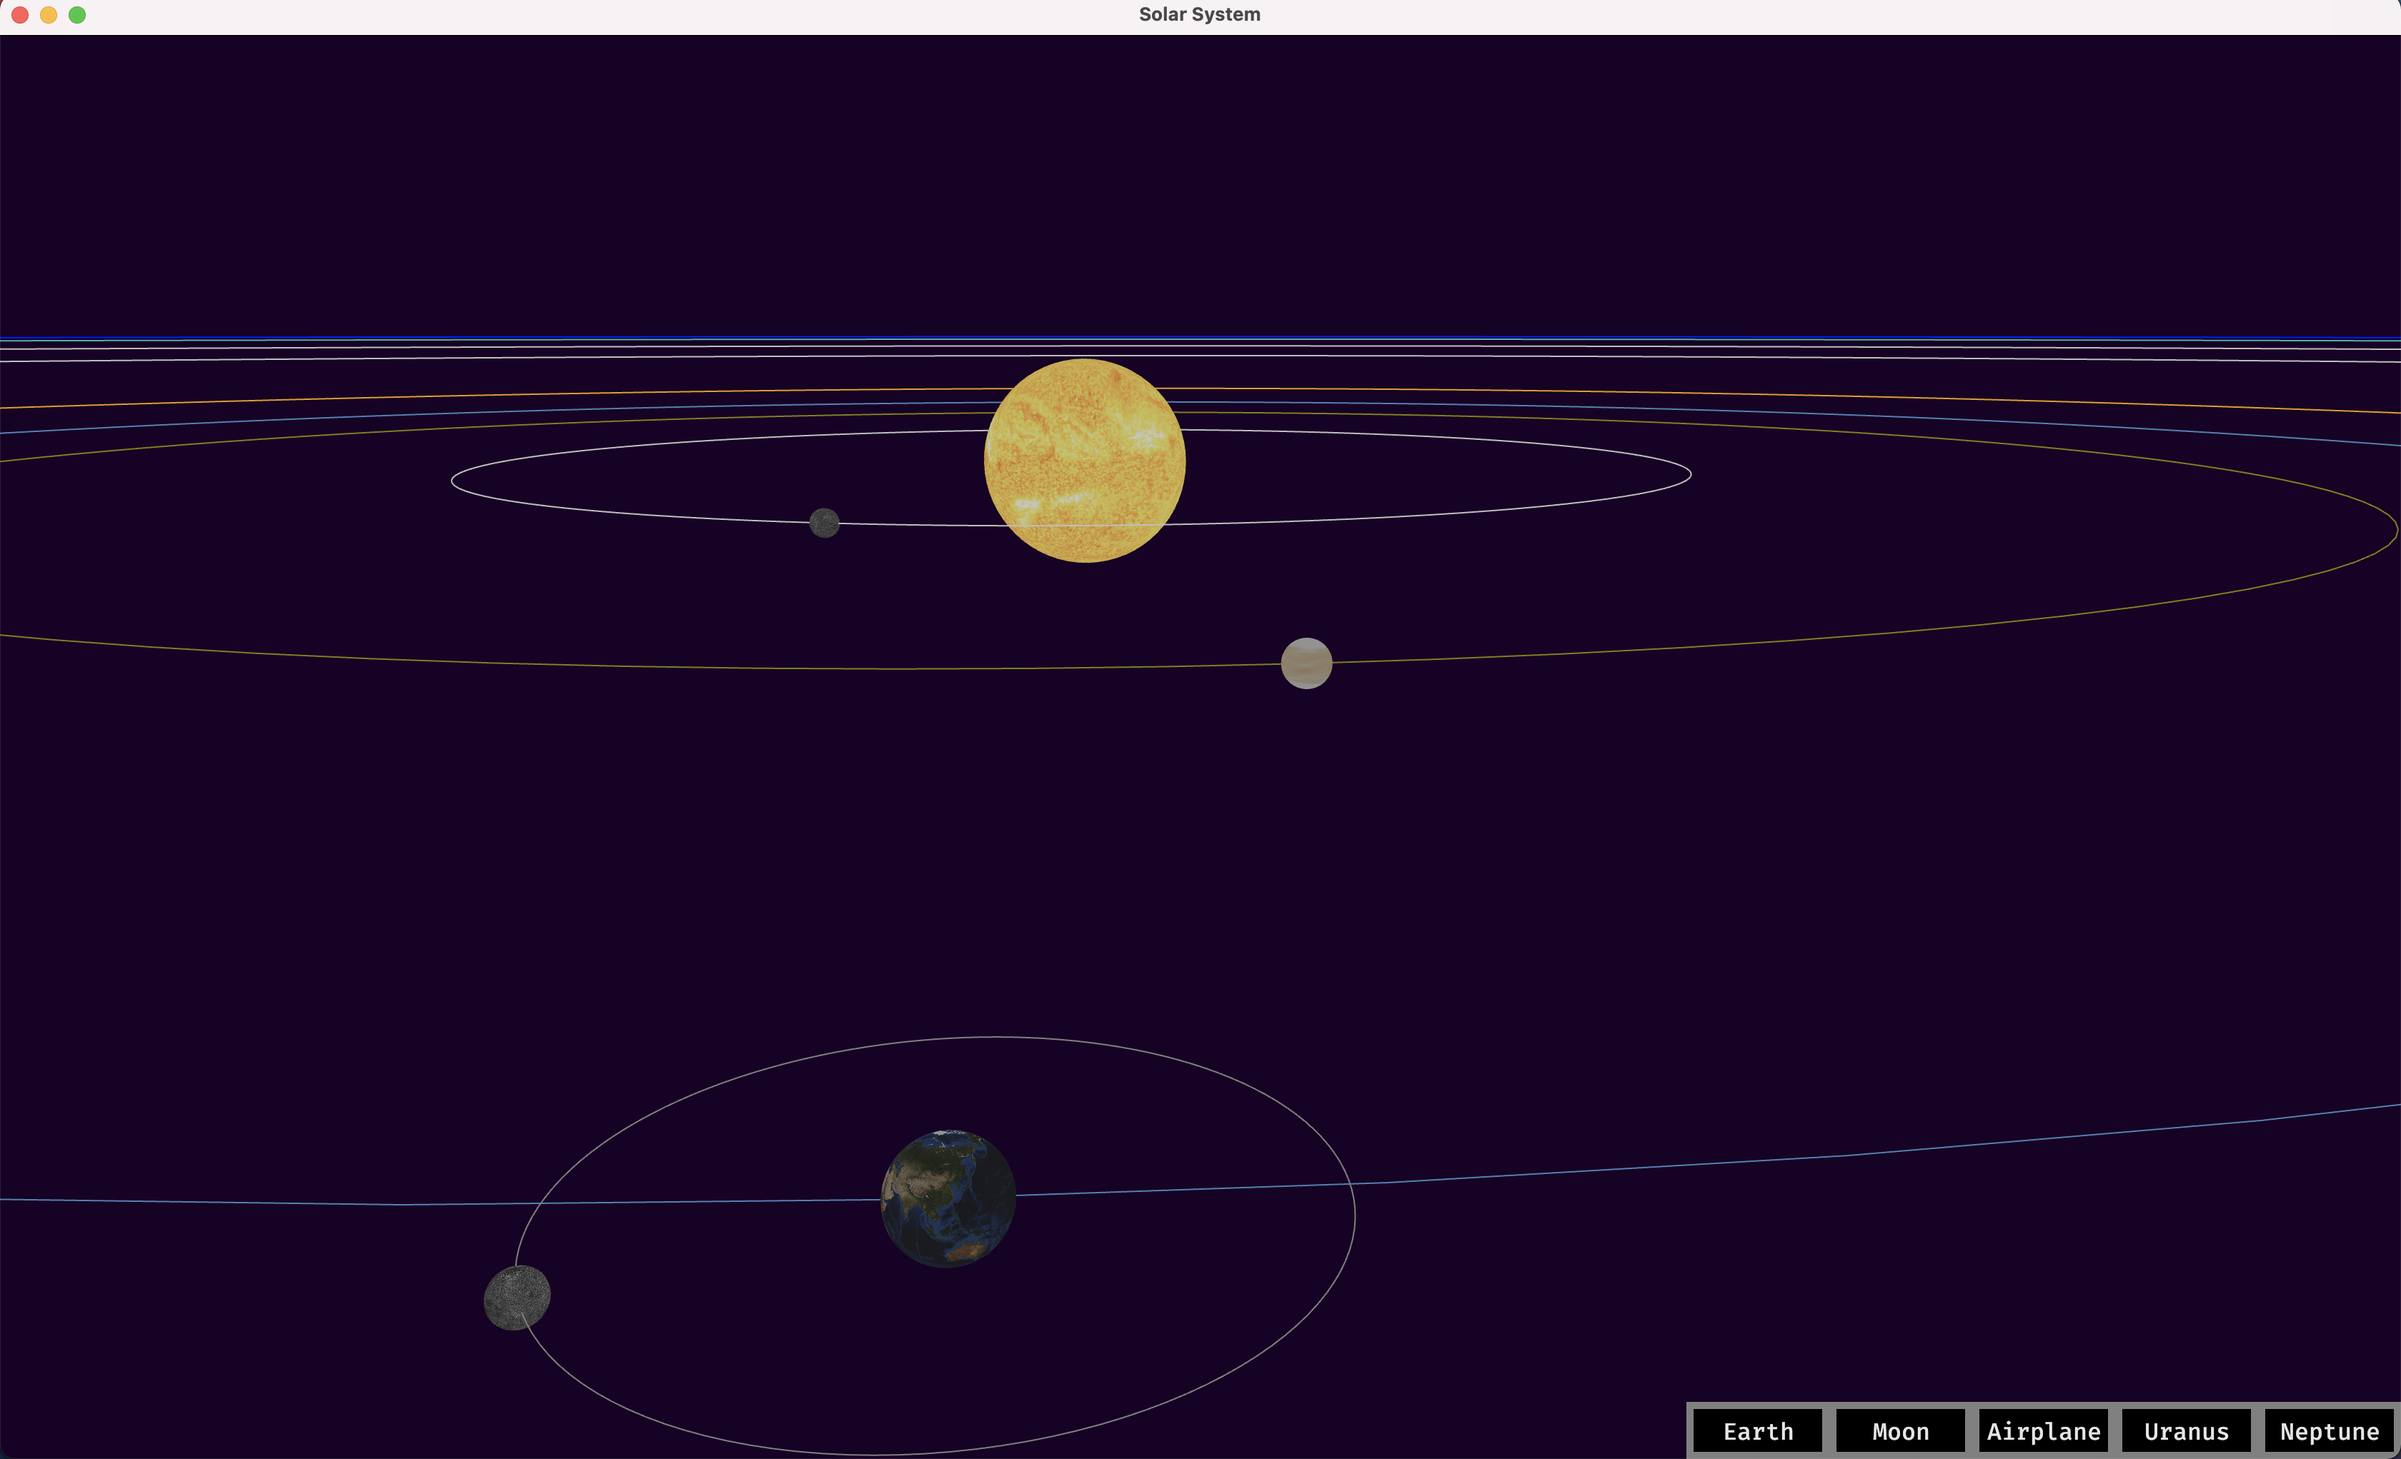
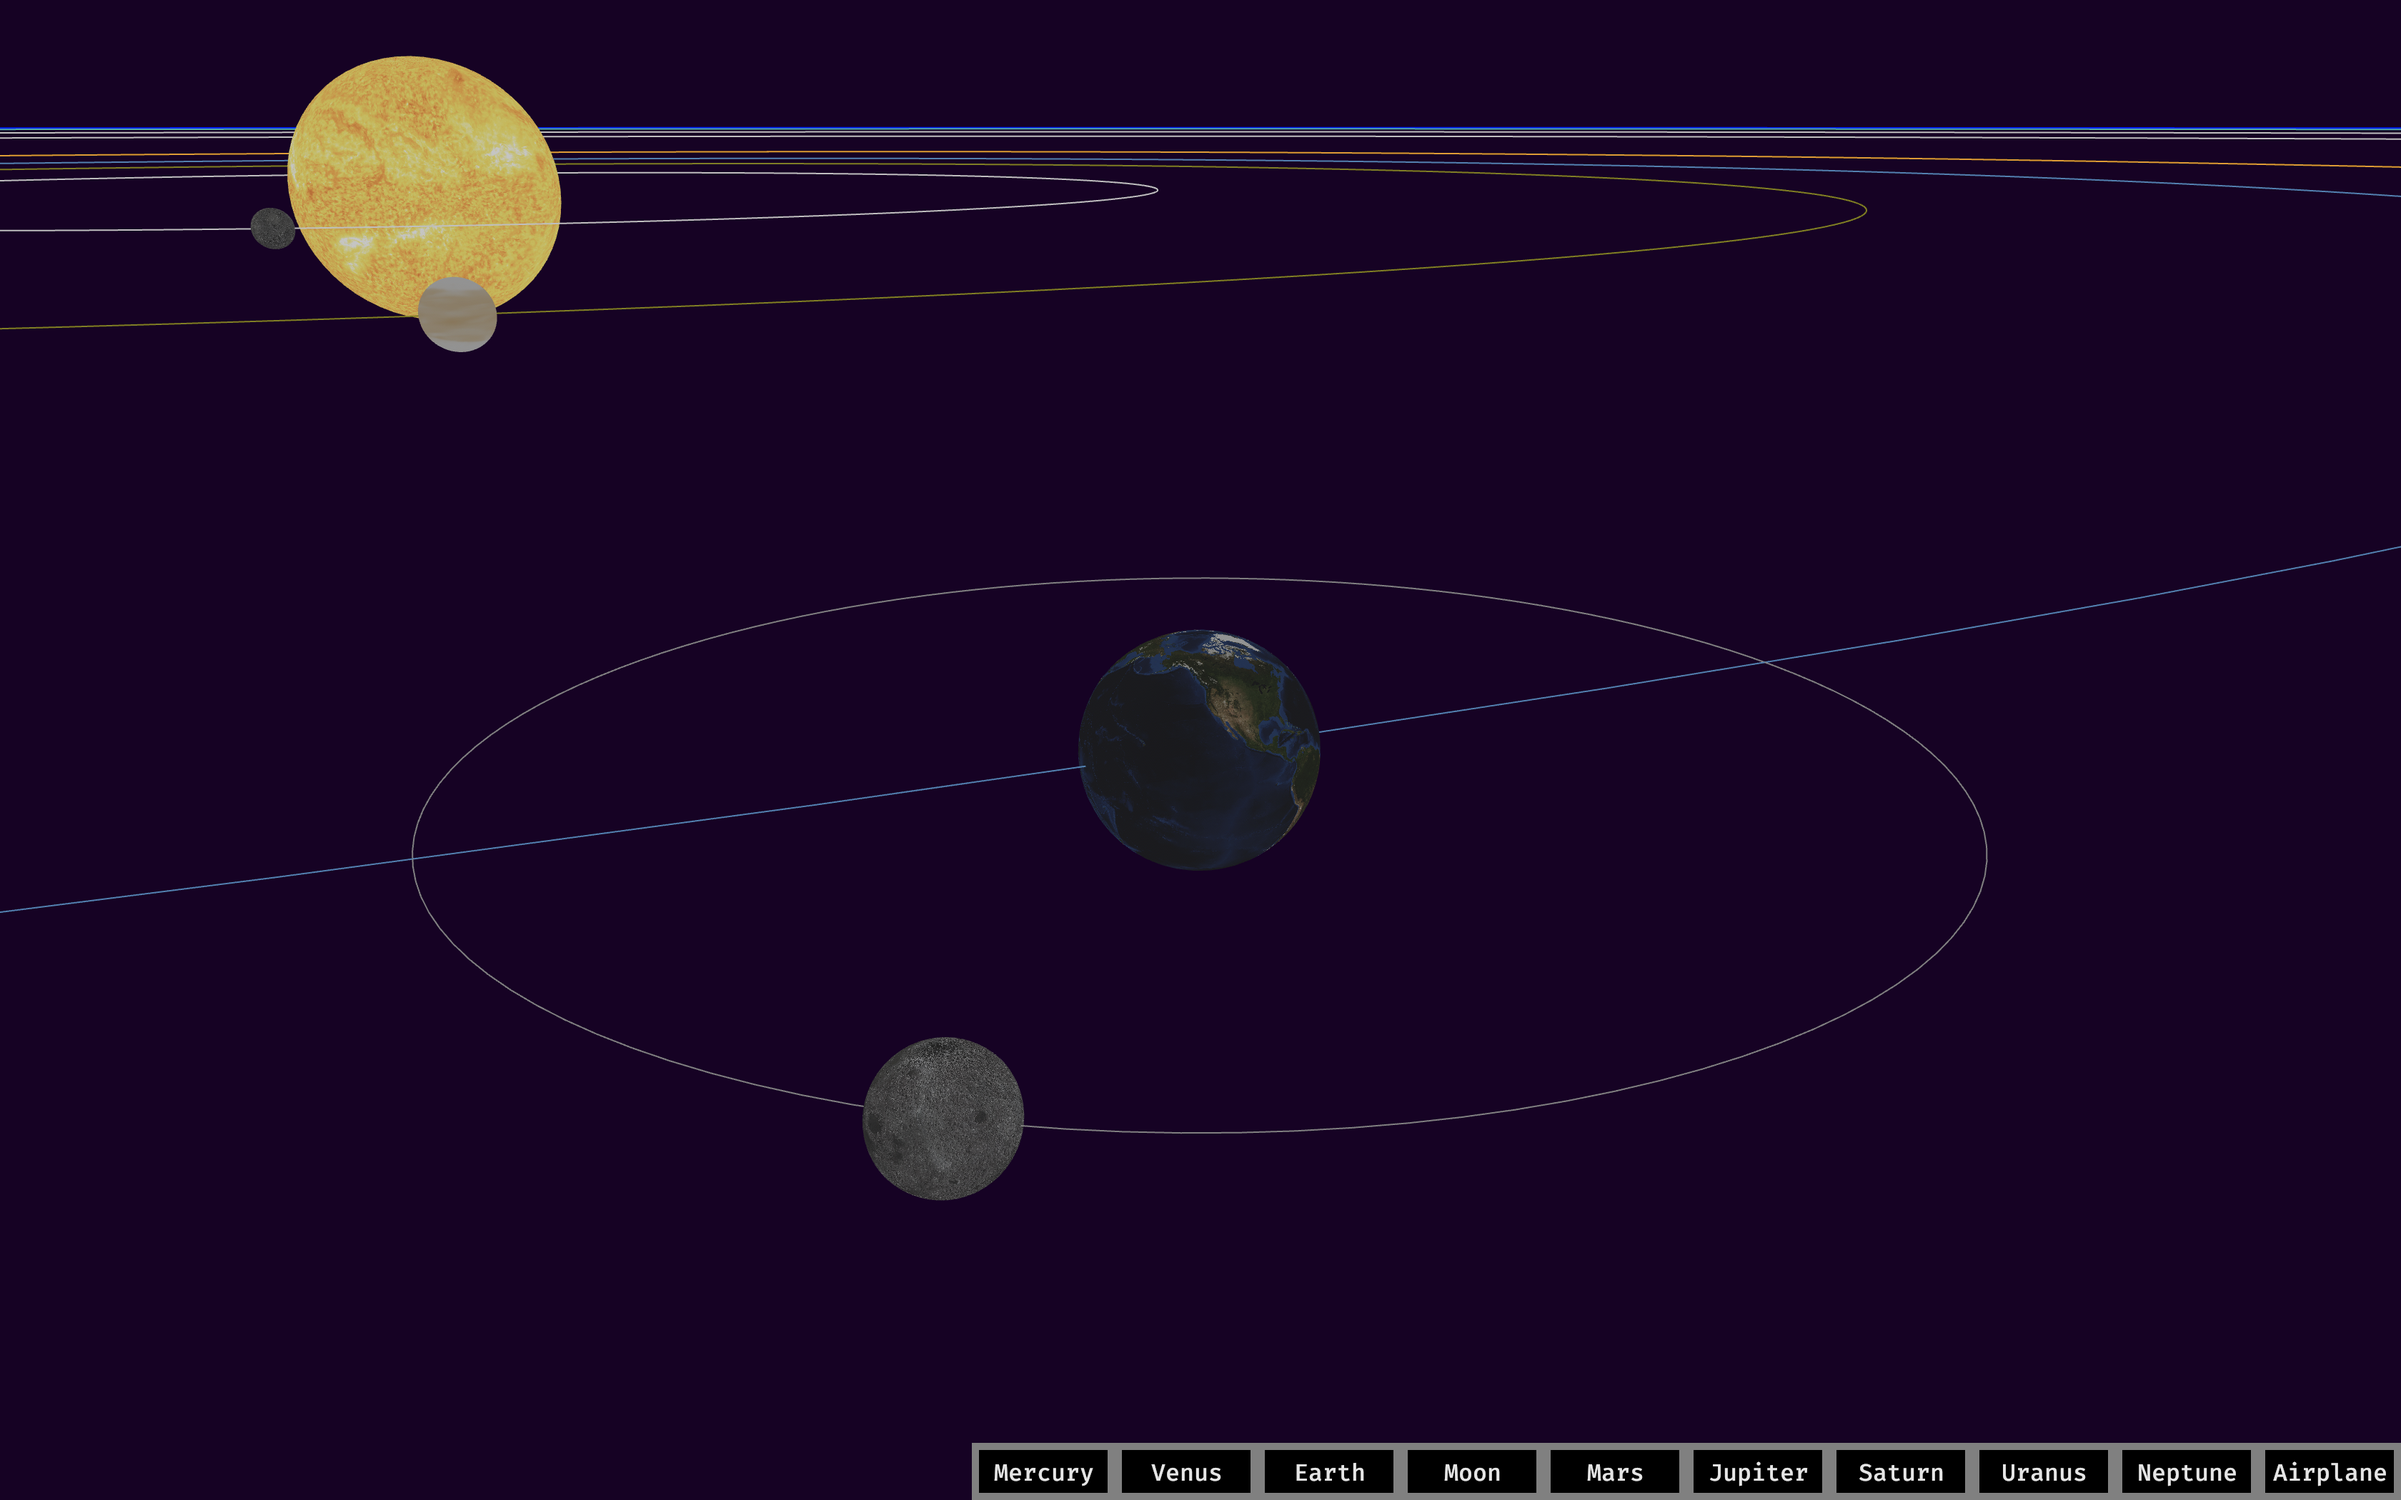
supporting panorbit in selected view

diff --git a/src/main.rs b/src/main.rs
@@ -336,17 +336,24 @@ fn setup(mut commands: Commands, asset_server: Res<AssetServer>) {
     ));
 
     commands.spawn((
+        MyCamera,
         Camera3dBundle {
             // projection: Projection::Perspective(PerspectiveProjection {
             //     far: 10000.0, // change the maximum render distance
             //     ..default()
             // }),
-            transform: Transform::from_xyz(0.0, 100., 0.0).looking_at(Vec3::ZERO, Vec3::Y),
+            transform: Transform::from_xyz(0.0, 500., 0.0).looking_at(Vec3::ZERO, Vec3::Y),
             ..default()
         },
-        PanOrbitCamera::default(),
+        PanOrbitCamera {
+            // target_focus: Vec3::new(0.0, 500., 0.0),
+            ..default()
+        },
     ));
 }
+
+#[derive(Component)]
+struct MyCamera;
 
 fn axis(mut gizmos: Gizmos) {
     gizmos
@@ -356,7 +363,7 @@ fn axis(mut gizmos: Gizmos) {
             constant::mercury::DISTANCE_TO_SUN / PLANET_DISTANCE_TO_SUN_SCALE,
             Color::SILVER,
         )
-        .segments(128);
+        .segments(256);
 
     gizmos
         .circle(
@@ -365,7 +372,7 @@ fn axis(mut gizmos: Gizmos) {
             constant::venus::DISTANCE_TO_SUN / PLANET_DISTANCE_TO_SUN_SCALE,
             Color::OLIVE,
         )
-        .segments(128);
+        .segments(256);
 
     gizmos
         .circle(
@@ -374,7 +381,7 @@ fn axis(mut gizmos: Gizmos) {
             constant::earth::DISTANCE_TO_SUN / PLANET_DISTANCE_TO_SUN_SCALE,
             Color::rgb_u8(70, 130, 180),
         )
-        .segments(128);
+        .segments(256);
 
     gizmos
         .circle(
@@ -383,7 +390,7 @@ fn axis(mut gizmos: Gizmos) {
             constant::mars::DISTANCE_TO_SUN / PLANET_DISTANCE_TO_SUN_SCALE,
             Color::rgb_u8(232, 155, 0), // Yellow Ochre
         )
-        .segments(128);
+        .segments(256);
 
     gizmos
         .circle(
@@ -392,7 +399,7 @@ fn axis(mut gizmos: Gizmos) {
             constant::jupiter::DISTANCE_TO_SUN / PLANET_DISTANCE_TO_SUN_SCALE,
             Color::SILVER,
         )
-        .segments(128);
+        .segments(256);
 
     gizmos
         .circle(
@@ -401,7 +408,7 @@ fn axis(mut gizmos: Gizmos) {
             constant::saturn::DISTANCE_TO_SUN / PLANET_DISTANCE_TO_SUN_SCALE,
             Color::SILVER,
         )
-        .segments(128);
+        .segments(256);
 
     gizmos
         .circle(
@@ -410,7 +417,7 @@ fn axis(mut gizmos: Gizmos) {
             constant::uranus::DISTANCE_TO_SUN / PLANET_DISTANCE_TO_SUN_SCALE,
             Color::rgb_u8(32, 178, 170),
         )
-        .segments(128);
+        .segments(256);
 
     gizmos
         .circle(
@@ -420,7 +427,7 @@ fn axis(mut gizmos: Gizmos) {
             // Color::rgb_u8(0, 191, 255),
             Color::BLUE,
         )
-        .segments(128);
+        .segments(256);
 
     gizmos.ray(
         Vec3::new(0., 0., 0.),
@@ -439,46 +446,48 @@ fn axis(mut gizmos: Gizmos) {
 
 fn camera_control(
     camera_focus: Res<CameraFocus>,
-    mut set: ParamSet<(
-        Query<(&mut PanOrbitCamera, &mut Transform)>,
-        Query<(&Transform, &Moon)>,
-        Query<(&Transform, &Earth)>,
-        Query<(&Transform, &Airplane)>,
-        Query<(&Transform, &CommonPlanets)>,
-    )>,
+    mut camera: Query<(&mut PanOrbitCamera, &mut Transform)>,
+    earth: Query<(&Earth, &Transform), Without<PanOrbitCamera>>,
+    moon: Query<(&Moon, &Transform), Without<PanOrbitCamera>>,
+    planets: Query<(&CommonPlanets, &Transform), Without<PanOrbitCamera>>,
+    airplane: Query<(&Airplane, &Transform), Without<PanOrbitCamera>>,
+    // mut set: ParamSet<(
+    //     Query<(&mut MyCamera, &mut Transform)>,
+    //     Query<(&Transform, &Moon)>,
+    //     Query<(&Transform, &Earth)>,
+    //     Query<(&Transform, &Airplane)>,
+    //     Query<(&Transform, &CommonPlanets)>,
+    // )>,
 ) {
     let mut target = Vec3::ZERO;
     match camera_focus.focus.as_str() {
         constant::earth::NAME => {
-            let query = set.p2();
-            let earth = query.single();
-            target += earth.0.translation;
+            let earth = earth.single();
+            target += earth.1.translation;
         }
         constant::moon::NAME => {
-            let query = set.p1();
-            let moon = query.single();
-            target += moon.0.translation;
+            let moon = moon.single();
+            target += moon.1.translation;
         }
         constant::airplane::NAME => {
-            let query = set.p3();
-            let plane = query.single();
-            target += plane.0.translation;
+            let plane = airplane.single();
+            target += plane.1.translation;
         }
         "Global" => {
             return;
         }
         _ => {
-            let query = set.p4();
             // let plane = query.single();
-            for (transform, planet) in &query {
+            for (planet, transform) in &planets {
                 if planet.name() == camera_focus.focus {
                     target += transform.translation;
                 }
             }
         }
     }
-    let mut camera = set.p0();
+    // let mut camera = set.p0();
     let mut camera = camera.single_mut();
-    *camera.1 = Transform::from_translation(target + Vec3::new(50.0, 50.0, 50.0))
-        .looking_at(target, Vec3::Y);
+    let delta_translation = Vec3::new(50.0, 50.0, 50.0);
+    // camera.1.translation = target + delta_translation;
+    camera.0.target_focus = target;
 }

diff --git a/README.md b/README.md
@@ -3,8 +3,7 @@ A simulated solar system,written in Rust using [bevy](https://bevyengine.org/)
 
 WebAssembly online: [here](https://buggoing.github.io/solar_system/)
 ![preview.png](./resource/preview.png)
-![preview.png](./resource/preview_1.png)
 
 ## Todo List
-- [] making sun as a point light
-- [] using real planet size, distance, obrit speed etc.
+- [ ] making sun as a point light
+- [ ] using real planet size, distance, obrit speed etc.
